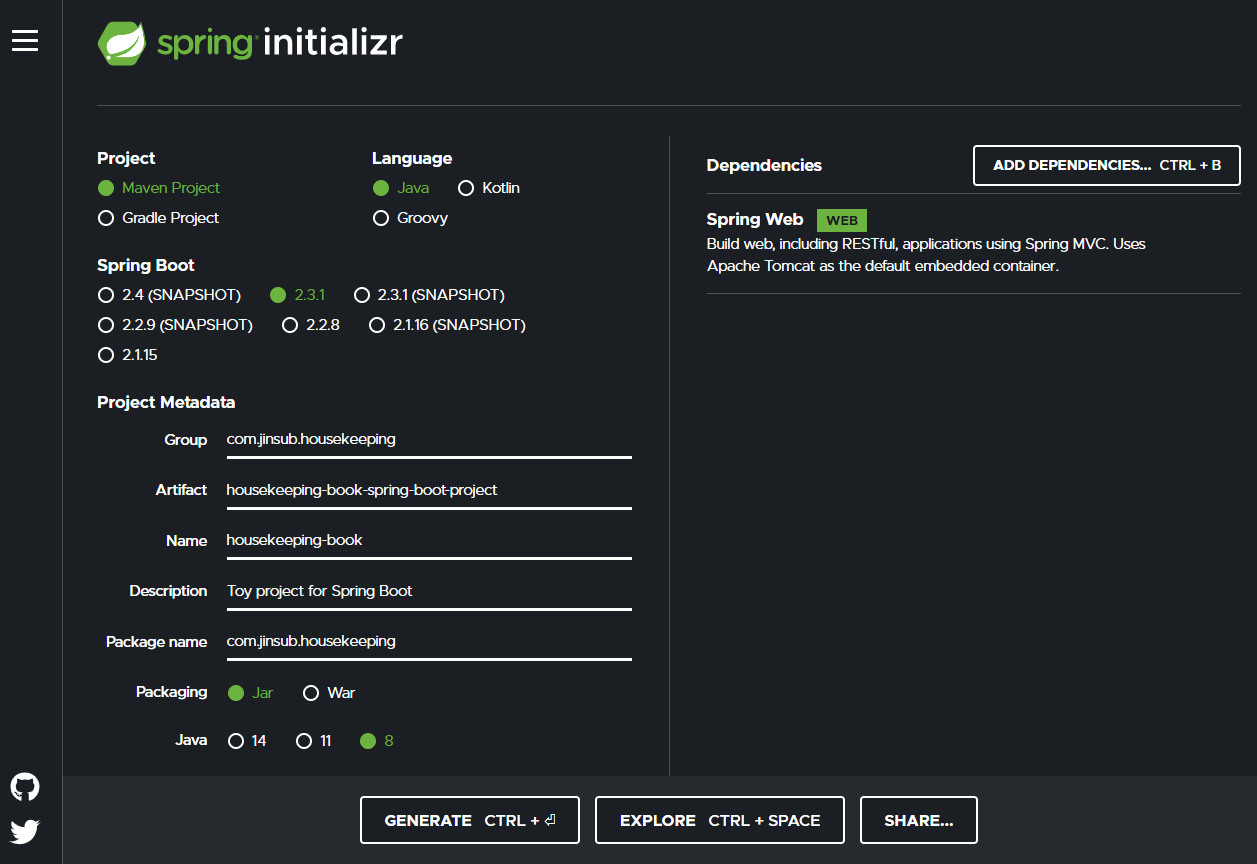
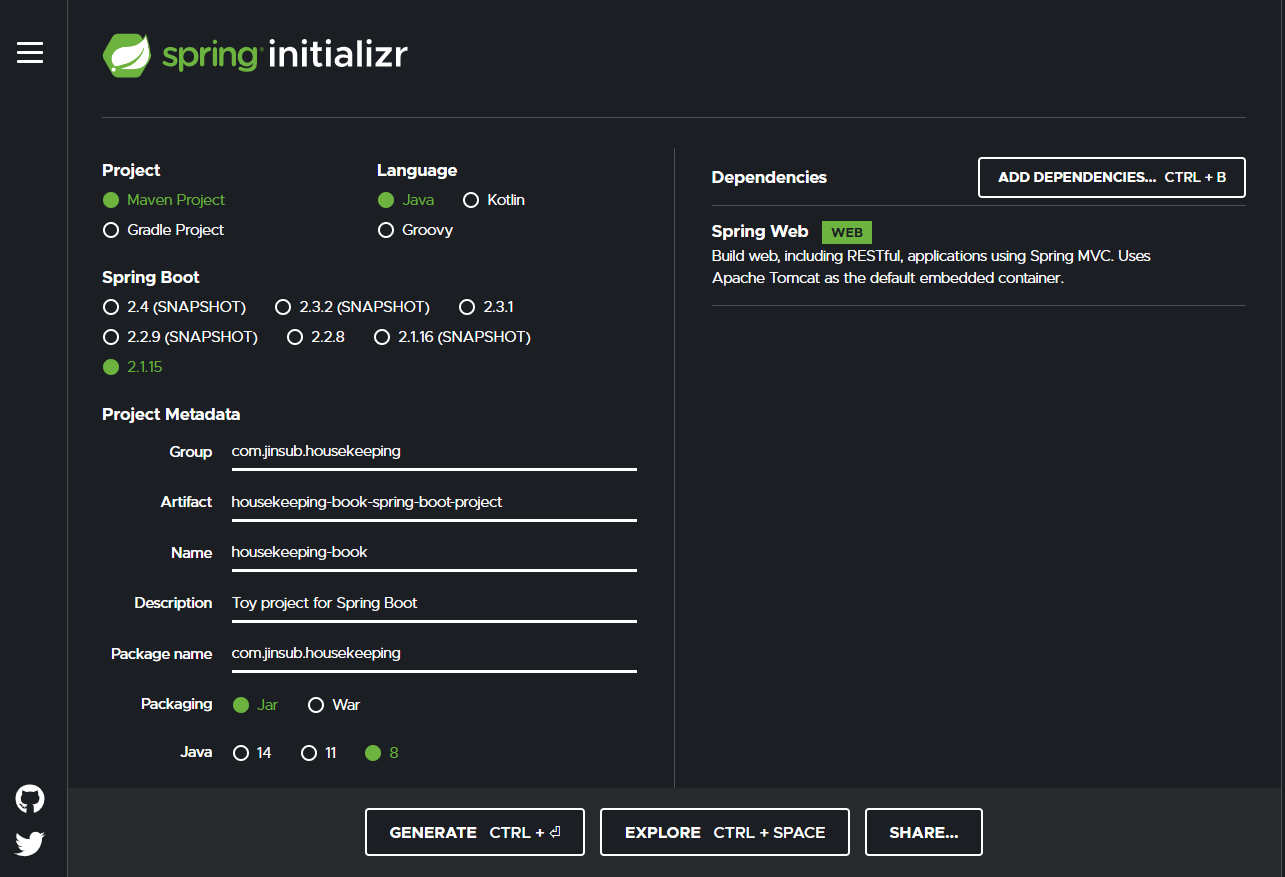
롬복 포스트 및 MySQL 포스트 수정

diff --git a/_posts/Project/2020-06-14-housekeeping-project-4.md b/_posts/Project/2020-06-14-housekeeping-project-4.md
@@ -31,11 +31,11 @@ spring.datasource.password=jinsub
 ```
 
 
-## JPA(Java Persistence API) 사용하기
+## JPA(Java Persistence API)와 이를 사용하기 위한 준비
 
 서버 개발 시 데이터를 영구적으로 저장하기 위한 목적으로 반드시 데이터베이스를 사용하게 된다. 주로 관계형 데이터베이스(RDB)가 사용되며, SQL(Structed Quert Language)을 통해 데이터의 CRUD(Create, Read, Update, Delete)가 이루어진다. 하지만 스프링 프레임워크는 **객체(Object)**가 중심이 되는 언어인 자바를 사용하기 때문에 RDB와 근본적인 형태가 다르다고 할 수 있다. 이 차이를 메꾸기 위해 JDBC, MyBatis 등의 기술이 사용되었다. 그러나 프로젝트 규모가 커지게 될 수록 SQL 작성 및 객체를 DB 테이블에 매핑하기 위한 과정에서 유지/보수 난이도가 상승하는 문제점이 발생하였다. ORM(Object-Relational Mapping) 프레임워크는 이러한 문제를 해결하기 위해 등장했고, JPA는 자바 진영의 ORM 기술 표준으로 사용되고 있다. 본 프로젝트에선 RDB를 사용하기 위해 JPA를 사용할 것이다.
 
-`pom.xml` 파일을 열어서 스프링 부트에서 JPA를 사용하기 위한 의존성 정보를 입력하면 간단히 JPA 설정이 완료된다.
+`pom.xml` 파일을 열어서 스프링 부트에서 JPA를 사용하기 위한 의존성 정보를 추가한다. 여기서 h2는 인메모리 관계형 데이터베이스로 별도의 설치가 필요하지 않고 의존성만으로 관리가 가능하다. 또한 인메모리 실행으로 애플리케이션을 재시작할 때마다 데이터가 초기화된다는 점을 이용하여 테스트에 주로 사용된다.
 
 ```xml
 <dependencies>
@@ -44,6 +44,15 @@ spring.datasource.password=jinsub
         <groupId>org.springframework.boot</groupId>
         <artifactId>spring-boot-starter-data-jpa</artifactId>
     </dependency>
+    <dependency>
+        <groupId>com.h2database</groupId>
+        <artifactId>h2</artifactId>
+    </dependency>
     ...
 </dependencies>
 ```
+
+## Reference
+
+> 스프링 부트와 AWS로 혼자 구현하는 웹 서비스, 이동욱, 프리렉, 2019 <br>
+> 자바 ORM 표준 JPA 프로그래밍, 김영한, 에이콘, 2015

diff --git a/_posts/Spring/2020-06-14-lombok-install.md b/_posts/Spring/2020-06-14-lombok-install.md
@@ -1,0 +1,29 @@
+---
+layout: post
+title:  "롬복(Lombok) 플러그인 설치"
+date:   2020-06-14 18:20:00 +0900
+categories: Spring
+tags: Spring Lombok
+---
+
+## 롬복(Lombok)이란?
+
+개발을 하다 보면 동일한 기능을 수행하지만 꼭 필요한 코드이기 때문에 반복적으로 작성해야 하는 것들이 있다. 예를 들면 클래스의 생성자, Getter/Setter 등. 롬복(Lombok)은 이러한 코드를 어노테이션을 통해 자동으로 생성해주는 플러그인이다. 작업 속도를 굉장히 빠르게 해주는 편리한 기능을 갖고 있기 때문에 대부분의 자바 프로젝트에서 사용한다. 
+
+## 인텔리제이(InjelliJ)에 롬복 설치하기
+
+먼저 라이브러리 의존성 설정을 해준다. Maven을 기준으로 `pom.xml` 파일에 다음을 추가한다.
+```xml
+<dependency>
+	<groupId>org.projectlombok</groupId>
+	<artifactId>lombok</artifactId>
+</dependency>
+```
+
+인텔리제이의 설정(Windows의 경우 File > Settings...)에서 왼쪽 검색 창에 "plugins"라고 입력한다. 그러면 플러그인을 설치할 수 있는 화면으로 변경되고 여기에 "Lombok"을 입력하여 플러그인을 설치한다. 
+
+![image](/post_assets/2020-06-14/lombok-install.png)
+
+플러그인이 설치가 완료되면 자동으로 인텔리제이가 재시작 하게 된다. File > Settings > Build, Execution, Deployment > Compiler > Annotation Processors 로 접근하여 Enable annotation processing 항목을 체크한 후 저장하면 롬복의 기능을 사용할 수 있다.
+
+![image](/post_assets/2020-06-14/lombok-install2.png)

diff --git a/_posts/Project/2020-06-13-housekeeping-project-2.md b/_posts/Project/2020-06-13-housekeeping-project-2.md
@@ -41,7 +41,7 @@ tags: Toy-project Spring-boot Spring
 	<parent>
 		<groupId>org.springframework.boot</groupId>
 		<artifactId>spring-boot-starter-parent</artifactId>
-		<version>2.3.1.RELEASE</version>
+		<version>2.1.15.RELEASE</version>
 		<relativePath/> <!-- lookup parent from repository -->
 	</parent>
 	<groupId>com.jinsub.housekeeping</groupId>
@@ -64,12 +64,6 @@ tags: Toy-project Spring-boot Spring
 			<groupId>org.springframework.boot</groupId>
 			<artifactId>spring-boot-starter-test</artifactId>
 			<scope>test</scope>
-			<exclusions>
-				<exclusion>
-					<groupId>org.junit.vintage</groupId>
-					<artifactId>junit-vintage-engine</artifactId>
-				</exclusion>
-			</exclusions>
 		</dependency>
 	</dependencies>
 
